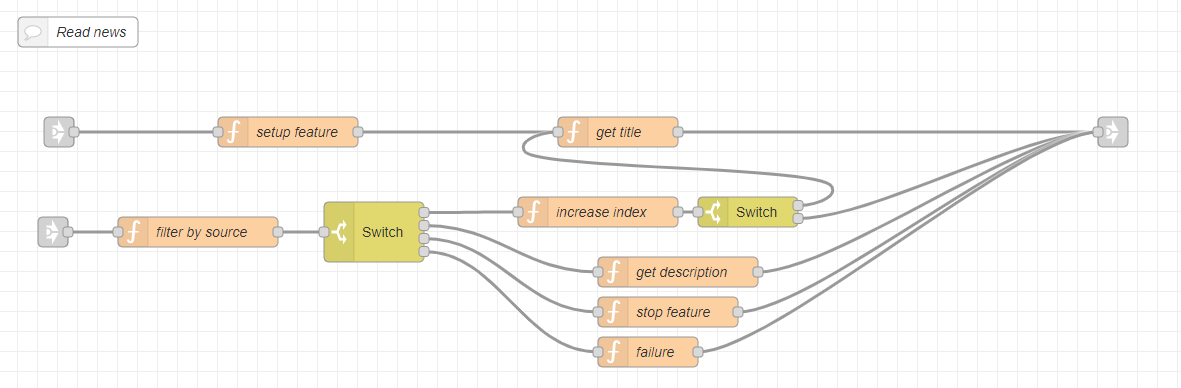
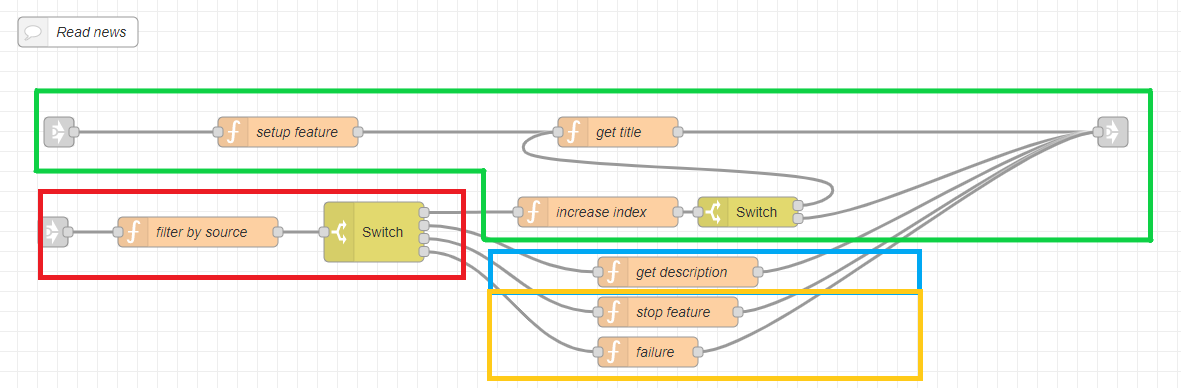
added documentation for the news-feature;

Changed region(s): [[0.0305, 0.2165, 0.9754, 0.9897]]

diff --git a/docs/pages/features/not-required/news.md b/docs/pages/features/not-required/news.md
@@ -32,14 +32,61 @@ ich hätte gerne mehr (infos | informationen)
 #### Example sentences
 Some example sentences are:
 ```textmate
-
+    1. Lies mir die Nachrichten vor.
+    2. Was gibt es Neues?
+    
+    3. Zur nächsten Nachricht.
+    
+    4. Ich hätte gerne mehr Infos.
 ```
 
 ## Node-Red
 
-We decided to use the RSS-Feed of the "[Tagesschau](https://www.tagesschau.de/xml/rss2_https/)".
+You can find the flow for all functions of this feature [here](https://github.com/th-koeln-intia/ip-sprachassistent-team2/blob/master/node-red/news.json).  
+![news](./../../../assets/Node-Red/Epics/News/news.png)  
 
-![news](./../../../assets/Node-Red/Epics/News/news.png)
-![updateNews](./../../../assets/Node-Red/Epics/News/updateNews.png)
-![readNews](./../../../assets/Node-Red/Epics/News/readNews.png)
-![loop](./../../../assets/Node-Red/Epics/News/loop.png)
+### Update the news
+ 
+![updateNews](./../../../assets/Node-Red/Epics/News/updateNews.png)  
+We decided to use the RSS-Feed of the "[Tagesschau](https://www.tagesschau.de/xml/rss2_https/)", because it is free and easy to use.  
+  
+The nodes are used for:  
+- `injection`-node: runs the process every 15 minutes 
+- `http-request`-node: requests the RSS-Feed of the "Tagesschau"
+- `xml`-node: converts the xml-file to json
+- `function`-node: formats the json file and saves it 
+
+### Read the news aloud
+![readNews](./../../../assets/Node-Red/Epics/News/readNews.png)  
+*The `link-out`-node is connected to our main [TTS-node](./../../tech-stack/hermesmqtt.md#tts).*
+
+The `green` section is used to get the headlines:
+- `function`-node(left): setup an index and creates a beginning message for TTS
+- `function`-node(top): adds a headline to the message/reads the titles of the news from the stored data
+- `function`-node(bottom): increases the index/creates the end of the news block, if there are no news left
+- `switch`-node: decides (based on the index) if the next headline should be read or if the feature should be stopped  
+  
+The `red` section is used to control this feature:
+- `function`-node: is connected to the [Command-Request-Callback-Node](./../../tech-stack/hermesmqtt.md#command-request) (via the `link-in`-node) and filters incoming messages by source
+- `switch`-node: switches by incoming intents (e.g. `[NextNews]`, `[Stop]`)  
+  
+The `blue` section is used to get more information about a headline:
+- `function`-node: reads the stored description of the headline and creates a TTS-message
+
+The `yellow` section is used to handle wrong intents or `[Stop]`:
+- `function`-node(top): creates TTS-message as feedback for the `[Stop]`
+- `function`-node(bottom): creates TTS-message as feedback, if there was a wrong or unknown intent detected
+
+### Loop
+
+![loop](./../../../assets/Node-Red/Epics/News/loop.png)  
+*The `link-in`-node is connected to our [TTS-Callback-Node](./../../tech-stack/hermesmqtt.md#tts), the `link-out`-node is connected to the [Command-Request-Node](./../../tech-stack/hermesmqtt.md#command-request).*  
+  
+All TTS-messages in this feature, except the one for the `[Stop]` intent, are tagged with the source "news".  
+We used this to create a loop to control the output.
+
+The nodes are used for:
+- `function`-node: filters by the source
+- `delay`-node: delays the message by one second to prevent errors
+
+

diff --git a/docs/pages/tech-stack/hermesmqtt.md b/docs/pages/tech-stack/hermesmqtt.md
@@ -66,9 +66,10 @@ To simplify the usage of our audio-output we decided to create two main `audio-o
 To use TTS, you simply have to publish a message to `hermes/tts/say`, which contains the following keys in its payload:  
 - `text`: the text, which should be spoken
 - `siteId`: to identify the source of the message (in our case `default`)
+- `id`: to identify, which process started the TTS-output
 
-We decided to switch off the wake-word-detection and to delay our message to prevent detections by Rhasspy itself.
-After speaking the text, hermes publishes a message to `hermes/tts/sayFinished`, which we used to switch on the wake-word-detection.
+We decided to switch off the wake-word-detection and to delay our message to prevent detections by Rhasspy itself.  
+After speaking the text, hermes publishes a message to `hermes/tts/sayFinished`, which we used to switch on the wake-word-detection and to pass the `id` to following nodes (Callback).  
 
 ##### .wav-files
 
@@ -86,7 +87,7 @@ To reach this goal we added some nodes:
 ![command-request](./../../assets/Node-Red/Hermes/command-request.png)
 
 The blue `link`-nodes are the in- and output-nodes of this function.  
-The `link-in`-node will trigger the process and the `link-out`-node will return the intent.  
+The `link-in`-node will trigger the process and the `link-out`-node will return the intent (Callback).  
 To see the function of the first `function`-node and the two `mqtt-out`-nodes, you should check our [dialogue manager](#dialogue-manager).  
 The second `function`-node creates a new message and a `payload` with the value `false`, which later is used to toggle switches.  
   
